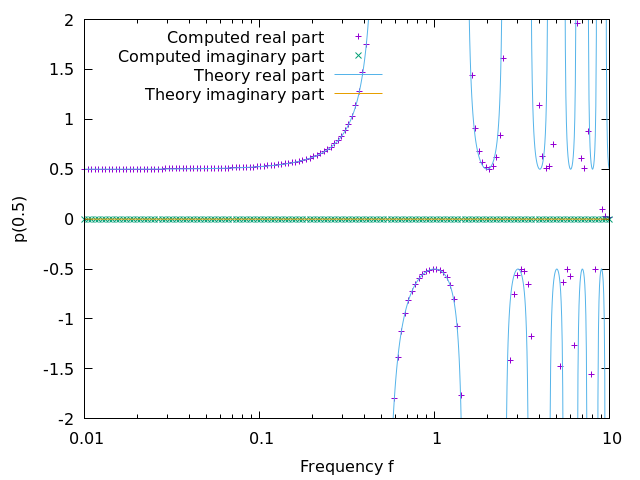
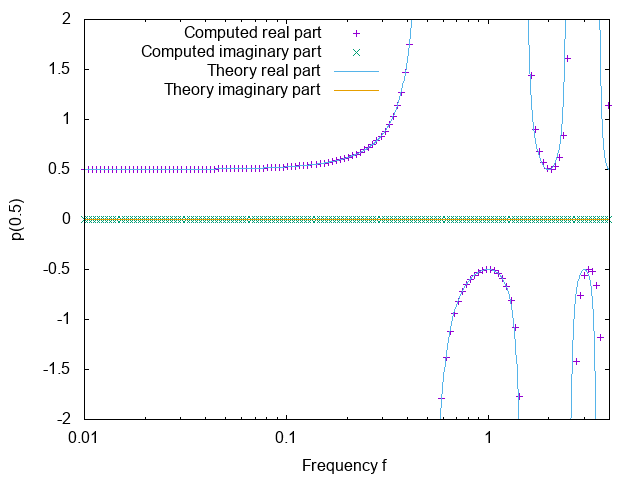
Double check everything and verify that it checks out.

diff --git a/testing/testing.tex b/testing/testing.tex
@@ -4,8 +4,8 @@
 
 \begin{document}
 
-\section*{Figuring out what happens with the solver when there is
-  attenuation}
+\section*{Figuring out what happens with the solver
+  \centering when there is attenuation}
 
 I like to use simple test cases because they clarify to me what is
 \textit{not} the problem. So I will be considering the following
@@ -29,7 +29,7 @@ are read from the input file as frequency-dependent quantities, and
 which can both be complex-valued.
 
 
-\subsection*{Testing the pressure}
+\section{Testing the pressure}
 
 The set-up is chosen so that the solution is one-dimensional. As a
 consequence, the solution only depends on $x$ and we can easily derive
@@ -75,7 +75,7 @@ We will consider this expression for two special cases below, without
 and with attenuation.
 
 
-\subsubsection*{No attenuation}
+\subsection{No attenuation}
 
 Let us consider the evaluation of the pressure at the center of the
 box for the special case without attenuation. For simplicity, we
@@ -133,12 +133,17 @@ the range between 0.01 and 1 Hz:
 \includegraphics[width=0.7\textwidth]{no-attenuation/pressure-at-center.png}
 \end{center}
 
-As can be seen, the computations (shown as the blue and green crosses) are an
-excellent match for the expected theoretical behavior. Furthermore,
-the singularity (resonance) is at $f=0.5$ Hz, again as expected.
+As can be seen, the computations (shown as the purple and green crosses)
+are an excellent match for the expected theoretical behavior, at least
+in the low-frequency regime. Furthermore, the singularity (resonance)
+is at $f=0.5$ Hz, again as expected. (For higher frequencies, the
+crosses are no longer a good fit, but this is because we compute on a
+mesh that has only $4\times 4\times 4$ cells. We can not expect it to
+accurately resolve the solution for frequencies $f\ge 4$ where the
+wavelength $\lambda=c/f$ drops below the cell diameter.)
 
 
-\subsubsection*{With attenuation}
+\subsection{With attenuation}
 
 Let us now consider the case with attenuation. Specifically, we will
 choose the same box of length $L=1$, but use $\rho=1-j, K=1$ and
@@ -185,5 +190,126 @@ We can again output the results of our computations:
 \includegraphics[width=0.7\textwidth]{with-attenuation/pressure-at-center.png}
 \end{center}
 As before, the results provide an excellent match to the theoretical expectations.
+
+
+\section{Testing the velocity}
+
+We can also look at the velocity at the center point. The velocity is
+defined as $\mathbf u(\mathbf x)=j\omega \nabla p(\mathbf x)$ but
+because everything only depends on the $x$ coordinate, only one
+component of the velocity is nonzero and we can simply denote it by
+(non-bold) $u(x)=-\frac{1}{j\rho\omega}\frac{d}{dx} p(x)$.
+
+\subsection{No attenuation}
+
+With the expression for the pressure above for the case without
+attenuation, we get
+\begin{align*}
+  u(x)
+  &=
+  -\frac{1}{j\rho\omega} \frac{d}{dx} \frac{\sin(\omega(1-x))}{\sin(\omega)}
+  \\
+  &=
+  -\frac{1}{j\rho} \frac{-\cos(\omega(1-x))}{\sin(\omega)},
+\end{align*}
+and consequently
+\begin{align*}
+  u_\text{center}
+  &=
+  \frac{1}{j\rho} \frac{\cos(\omega/2)}{\sin(\omega)}
+  \\
+  &=
+  -\frac{j}{\rho} \frac{\cos(\omega/2)}{\sin(\omega)}.
+\end{align*}
+In the low-frequency regime, this expression has the asymptotic behavior
+\begin{align*}
+  u_\text{center}
+  &\approx
+  -\frac{j}{\rho} \frac{1}{\omega}.
+\end{align*}
+
+
+We can again compare this against what the program computes:
+\begin{center}
+\includegraphics[width=0.7\textwidth]{no-attenuation/velocity-at-center.png}
+\end{center}
+As before, in the low-frequency range, the agreement is
+excellent. (And, as before, the agreement is not good in the
+high-frequency range because the mesh is too coarse. There is also a
+little blip at the first resonance at $f=0.5$ Hz. This is because
+while the pressure becomes very large at the resonance, the
+\textit{exact} velocity stays bounded -- but the numerical
+approximation becomes poor.)
+
+While not shown
+in the figure, one can easily check that the asymptotic behavior
+outlined above is also respected by the actual computed data points.
+
+
+
+\subsection{With attenuation}
+
+For the case with attenuation, let us start with
+\begin{align*}
+  p(x)
+  &=
+  \frac{\sinh(jk(L-x))}{\sinh(jkL)},
+\end{align*}
+to compute
+\begin{align*}
+  u(x)
+  &=
+  -\frac{1}{j\rho\omega} \frac{d}{dx}
+  \frac{\sinh(jk(L-x))}{\sinh(jkL)}
+  \\
+  &=
+  -\frac{1}{j\rho\omega}
+  \frac{-jk\cosh(jk(L-x))}{\sinh(jkL)}
+  \\
+  &=
+  \frac{k}{\rho\omega}
+  \frac{\cosh(jk(L-x))}{\sinh(jkL)}
+  \\
+  &=
+  \frac{1}{\rho c}
+  \frac{\cosh(jk(L-x))}{\sinh(jkL)}
+  \\
+  &=
+  \frac{1}{\rho}\sqrt{\frac{\rho}{K}}
+  \frac{\cosh(jk(L-x))}{\sinh(jkL)}
+  \\
+  &=
+  \frac{1}{\sqrt{\rho K}}
+  \frac{\cosh(jk(L-x))}{\sinh(jkL)}.
+\end{align*}
+From this we then get
+\begin{align*}
+  u_\text{center}
+  &=
+  \frac{1}{\sqrt{\rho K}}
+  \frac{\cosh(jk/2)}{\sinh(jk)}.
+\end{align*}
+In the low-frequency regime, the asymptotic expansion of this
+expression is
+\begin{align*}
+  u_\text{center}
+  &\approx
+  \frac{1}{\sqrt{\rho K}}
+  \frac{1}{jk}
+  =
+  -\frac{j}{\sqrt{\rho K}}
+  \frac{\sqrt{K}}{\omega\sqrt{\rho}}
+  =
+  -\frac{j}{\omega\rho}.
+\end{align*}
+This is the same expression as for the case without attenuation,
+except that now $\rho$ may be complex-valued.
+
+If we compare the exact expression against computations, we obtain the
+following figure:
+\begin{center}
+\includegraphics[width=0.7\textwidth]{with-attenuation/velocity-at-center.png}
+\end{center}
+The match is again excellent.
 
 \end{document}
